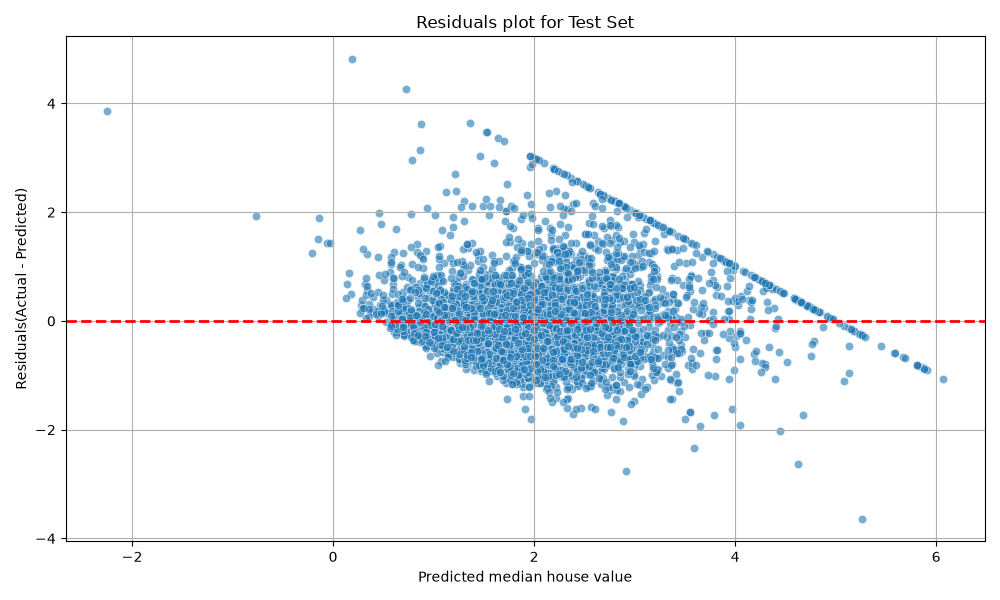
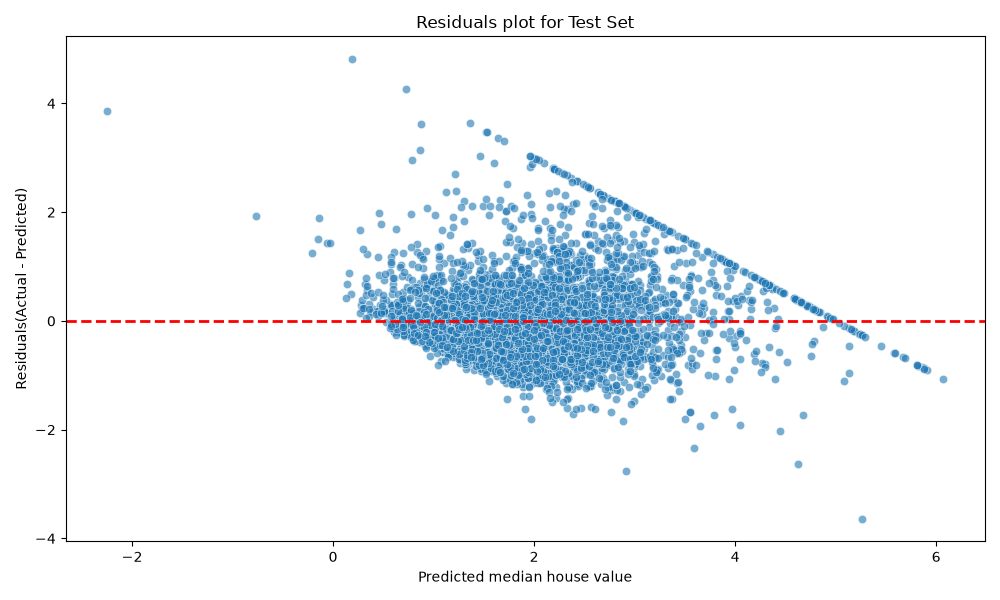
Add StandardScaler
adding StandardScaler and to check whether using scaled features will make the model better

diff --git a/src/a02.py b/src/a02.py
@@ -40,11 +40,9 @@ sns.histplot(df['MedHouseVal'], kde=True, bins=50)
 plt.title('Distribution of MedHouseVal')
 plt.xlabel('Median House Value')
 plt.ylabel('Frequency')
-plt.grid(True, alpha=0.3)
 plt.tight_layout()
 plt.savefig('figures/medhouseval_distribution.png')
 plt.close()
-
 print(f"Distribution plot of MedHouseVal saved to 'figures' directory.")
 
 # Initialize MLPRegressor with early stopping and custom hyperparameters
@@ -136,34 +134,17 @@ R-squared (R2 Score): {r2_test:.4f}
 """
 
 # Define the file path
-metrics_file_path = 'metrics/regression_metrics.txt'
+metrics_file_path = 'metrics/metrics_performance.txt'
 
 # Write the metrics to the file
 with open(metrics_file_path, 'w') as f:
     f.write(metrics_content)
-
 print(f"Regression metrics saved successfully to '{metrics_file_path}'")
-
-# Residuals
-# Residual plot for the training set
-residuals_train = y_train - y_train_pred
-plt.figure(figsize=(10, 6))
-sns.scatterplot(x=y_train_pred, y=residuals_train, alpha=0.6)
-plt.grid(True)
-plt.axhline(y=0, color="r", linestyle="--", linewidth=2)
-plt.xlabel("Predicted median house value")
-plt.ylabel("Residuals(Actual - Predicted)")
-plt.title("Residuals plot for Training Set")
-plt.tight_layout()
-plt.savefig("figures/train_residuals.png")
-plt.close()
-print("Saved figures/train_residuals.png")
 
 # Residual plot for the test set
 residuals = y_test - y_test_pred
 plt.figure(figsize=(10, 6))
 sns.scatterplot(x=y_test_pred, y=residuals, alpha=0.6)
-plt.grid(True)
 plt.axhline(y=0, color="r", linestyle="--", linewidth=2)
 plt.xlabel("Predicted median house value")
 plt.ylabel("Residuals(Actual - Predicted)")
@@ -173,7 +154,6 @@ plt.savefig("figures/test_residuals.png")
 plt.close()
 print("Saved figures/test_residuals.png")
 
-# Loss Curve
 # Training loss curve for the MLPRegressor
 plt.figure(figsize=(10, 6))
 plt.plot(mlp_regressor.loss_curve_)
@@ -197,3 +177,106 @@ print("Features (X_train and X_test) have been scaled using StandardScaler.")
 print(f"X_train_scaled shape: {X_train_scaled.shape}")
 print(f"X_test_scaled shape: {X_test_scaled.shape}")
 
+# Train the model using scaled features
+mlp_regressor.fit(X_train_scaled, y_train)
+print("MLPRegressor scaled model trained successfully with early stopping.")
+
+# Create predictions on the training set
+y_train_pred = mlp_regressor.predict(X_train_scaled)
+
+# Plot actual vs. predicted values for the training set
+plt.figure(figsize=(10, 6))
+sns.scatterplot(x=y_train, y=y_train_pred, alpha=0.6)
+plt.plot([y_train.min(), y_train.max()], [y_train.min(), y_train.max()], "r--") 
+plt.xlabel ("Actual median house value")
+plt.ylabel("Predicted median house value")
+plt.title("Actual vs. Predicted Train Set (Scaled Features)")
+plt.tight_layout()
+plt.savefig("figures/scaled_train_actual_vs_pred.png")
+plt.close()
+print("Saved figures/scaled_train_actual_vs_pred.png")
+
+# Create predictions on the test set
+y_test_pred = mlp_regressor.predict(X_test_scaled)
+
+plt.figure(figsize=(10, 6))
+sns.scatterplot(x=y_test, y=y_test_pred, alpha=0.6)
+plt.plot([y_test.min(), y_test.max()], [y_test.min(), y_test.max()], "r--")
+plt.xlabel("Actual median house value")
+plt.ylabel("Predicted median house value")
+plt.title("Actual vs. Predicted Test Set (Scaled Features)")
+plt.tight_layout()
+plt.savefig("figures/scaled_test_actual_vs_pred.png")
+plt.close()
+print("Saved figures/scaled_test_actual_vs_pred.png")
+
+# Metrics Evaluation for Scaled Features
+# --- Evaluate Training Set Performance ---
+print("\n--- Training Set Metrics (Scaled Features) ---")
+mae_train_scaled = mean_absolute_error(y_train, y_train_pred)
+mse_train_scaled = mean_squared_error(y_train, y_train_pred)
+rmse_train_scaled = np.sqrt(mse_train_scaled)
+r2_train_scaled = r2_score(y_train, y_train_pred)
+
+print(f"Mean Absolute Error (MAE): {mae_train_scaled:.4f}")
+print(f"Mean Squared Error (MSE): {mse_train_scaled:.4f}")
+print(f"Root Mean Squared Error (RMSE): {rmse_train_scaled:.4f}")
+print(f"R-squared (R2): {r2_train_scaled:.4f}")
+
+# --- Evaluate Test Set Performance ---
+print("\n--- Test Set Metrics (Scaled Features) ---")
+mae_test_scaled = mean_absolute_error(y_test, y_test_pred)
+mse_test_scaled = mean_squared_error(y_test, y_test_pred)
+rmse_test_scaled = np.sqrt(mse_test_scaled)
+r2_test_scaled = r2_score(y_test, y_test_pred)
+
+print(f"Mean Absolute Error (MAE): {mae_test_scaled:.4f}")
+print(f"Mean Squared Error (MSE): {mse_test_scaled:.4f}")
+print(f"Root Mean Squared Error (RMSE): {rmse_test_scaled:.4f}")
+print(f"R-squared (R2): {r2_test_scaled:.4f}")
+
+# Save metrics to a text file for scaled features
+# Prepare the metrics string to be saved
+metrics_content = f"""
+--- Training Set Metrics (Scaled Features) ---
+Mean Absolute Error (MAE): {mae_train_scaled:.4f}
+Mean Squared Error (MSE): {mse_train_scaled:.4f}
+Root Mean Squared Error (RMSE): {rmse_train_scaled:.4f}
+R-squared (R2): {r2_train_scaled:.4f}
+
+--- Test Set Metrics (Scaled Features) ---
+Mean Absolute Error (MAE): {mae_test_scaled:.4f}
+Mean Squared Error (MSE): {mse_test_scaled:.4f}
+Root Mean Squared Error (RMSE): {rmse_test_scaled:.4f}
+R-squared (R2): {r2_test_scaled:.4f}
+"""
+
+# Append the metrics to the same file
+with open(metrics_file_path, 'a') as f:
+    f.write(metrics_content)
+print(f"Regression metrics appended successfully to '{metrics_file_path}'")
+
+# Residual plot for the test set with scaled features
+residuals_scaled = y_test - y_test_pred
+plt.figure(figsize=(10, 6))
+sns.scatterplot(x=y_test_pred, y=residuals_scaled, alpha=0.6)
+plt.axhline(y=0, color="r", linestyle="--", linewidth=2)
+plt.xlabel("Predicted median house value")
+plt.ylabel("Residuals(Actual - Predicted)")
+plt.title("Residuals plot for Test Set (Scaled Features)")
+plt.tight_layout()
+plt.savefig("figures/scaled_test_residuals.png")
+plt.close()
+print("Saved figures/scaled_test_residuals.png")
+
+# Training loss curve for the MLPRegressor with scaled features
+plt.figure(figsize=(10, 6))
+plt.plot(mlp_regressor.loss_curve_)
+plt.xlabel("Iterations")
+plt.ylabel("Training Loss")
+plt.title("Training Loss Curve for MLPRegressor (Scaled Features)")
+plt.grid(True, alpha=0.3)
+plt.tight_layout()
+plt.savefig("figures/scaled_loss_curve.png")
+plt.close()
+print("Saved figures/scaled_loss_curve.png")
